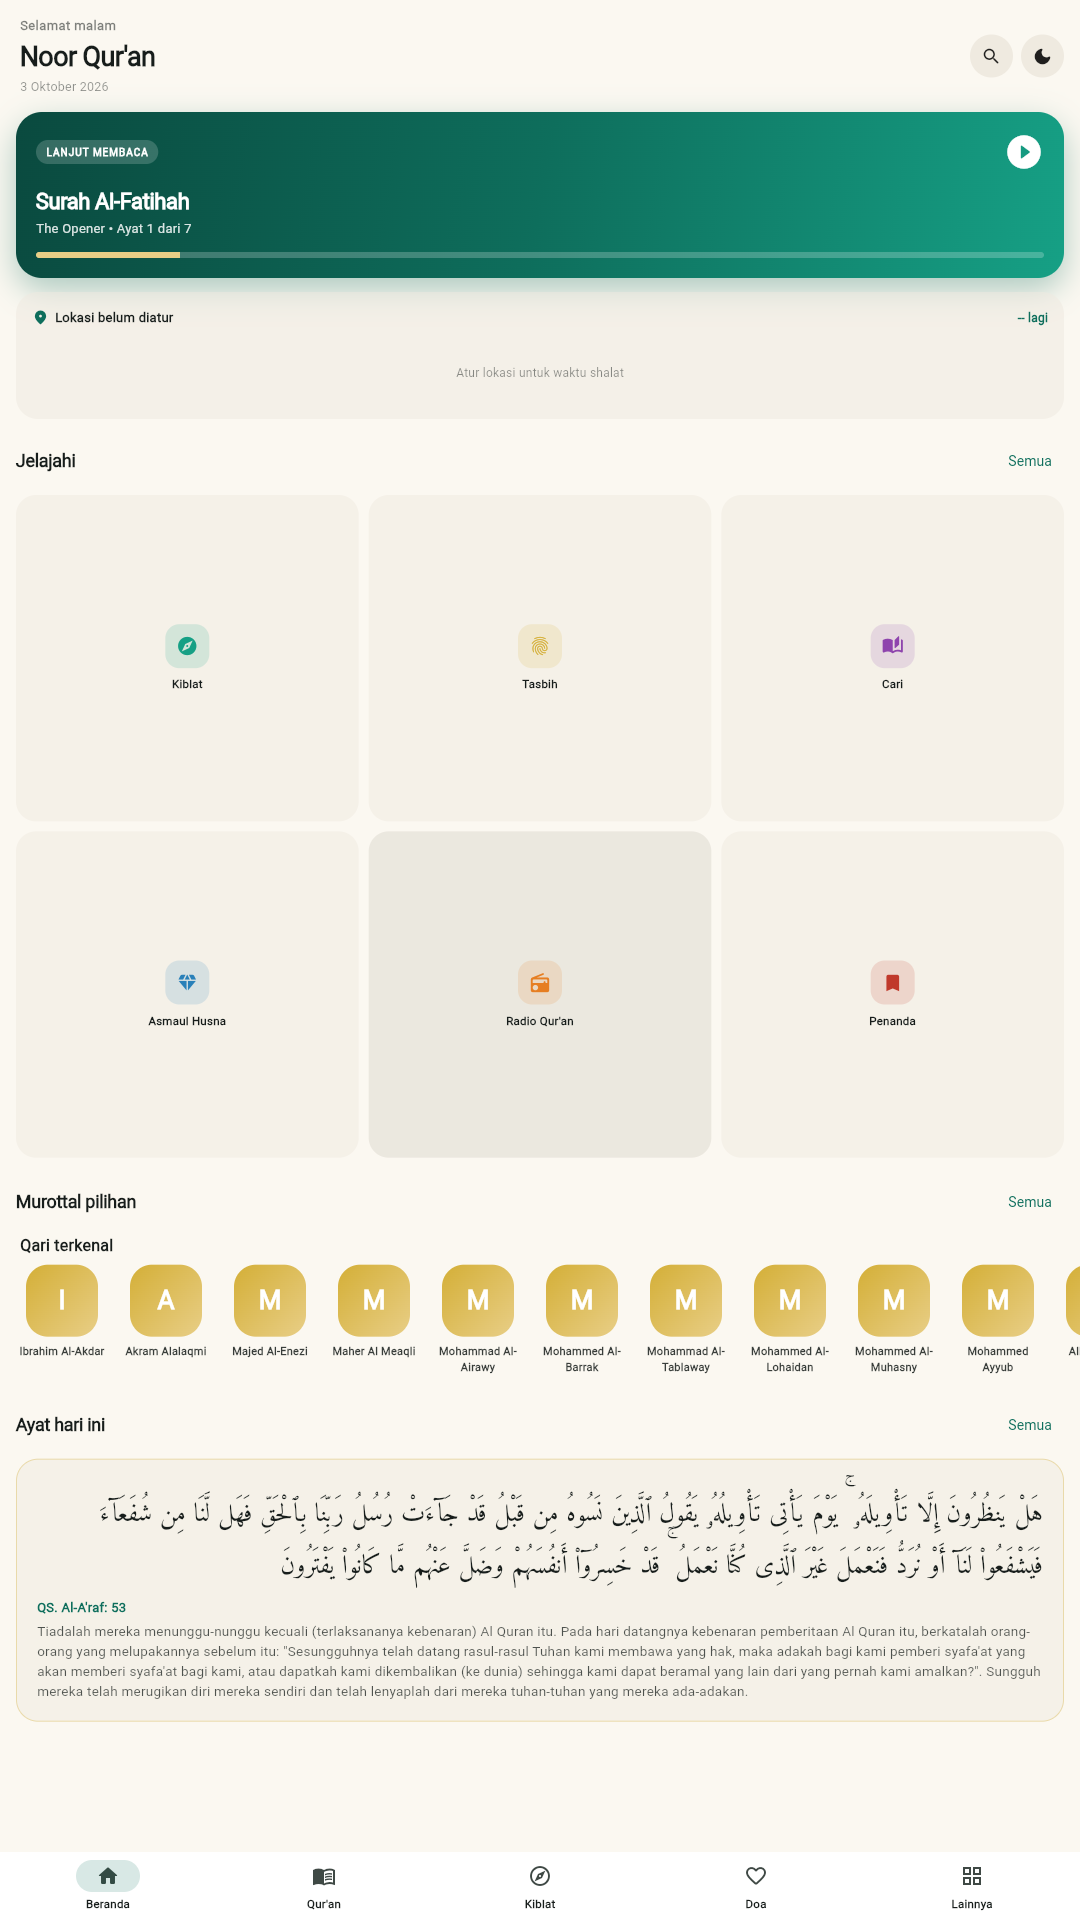
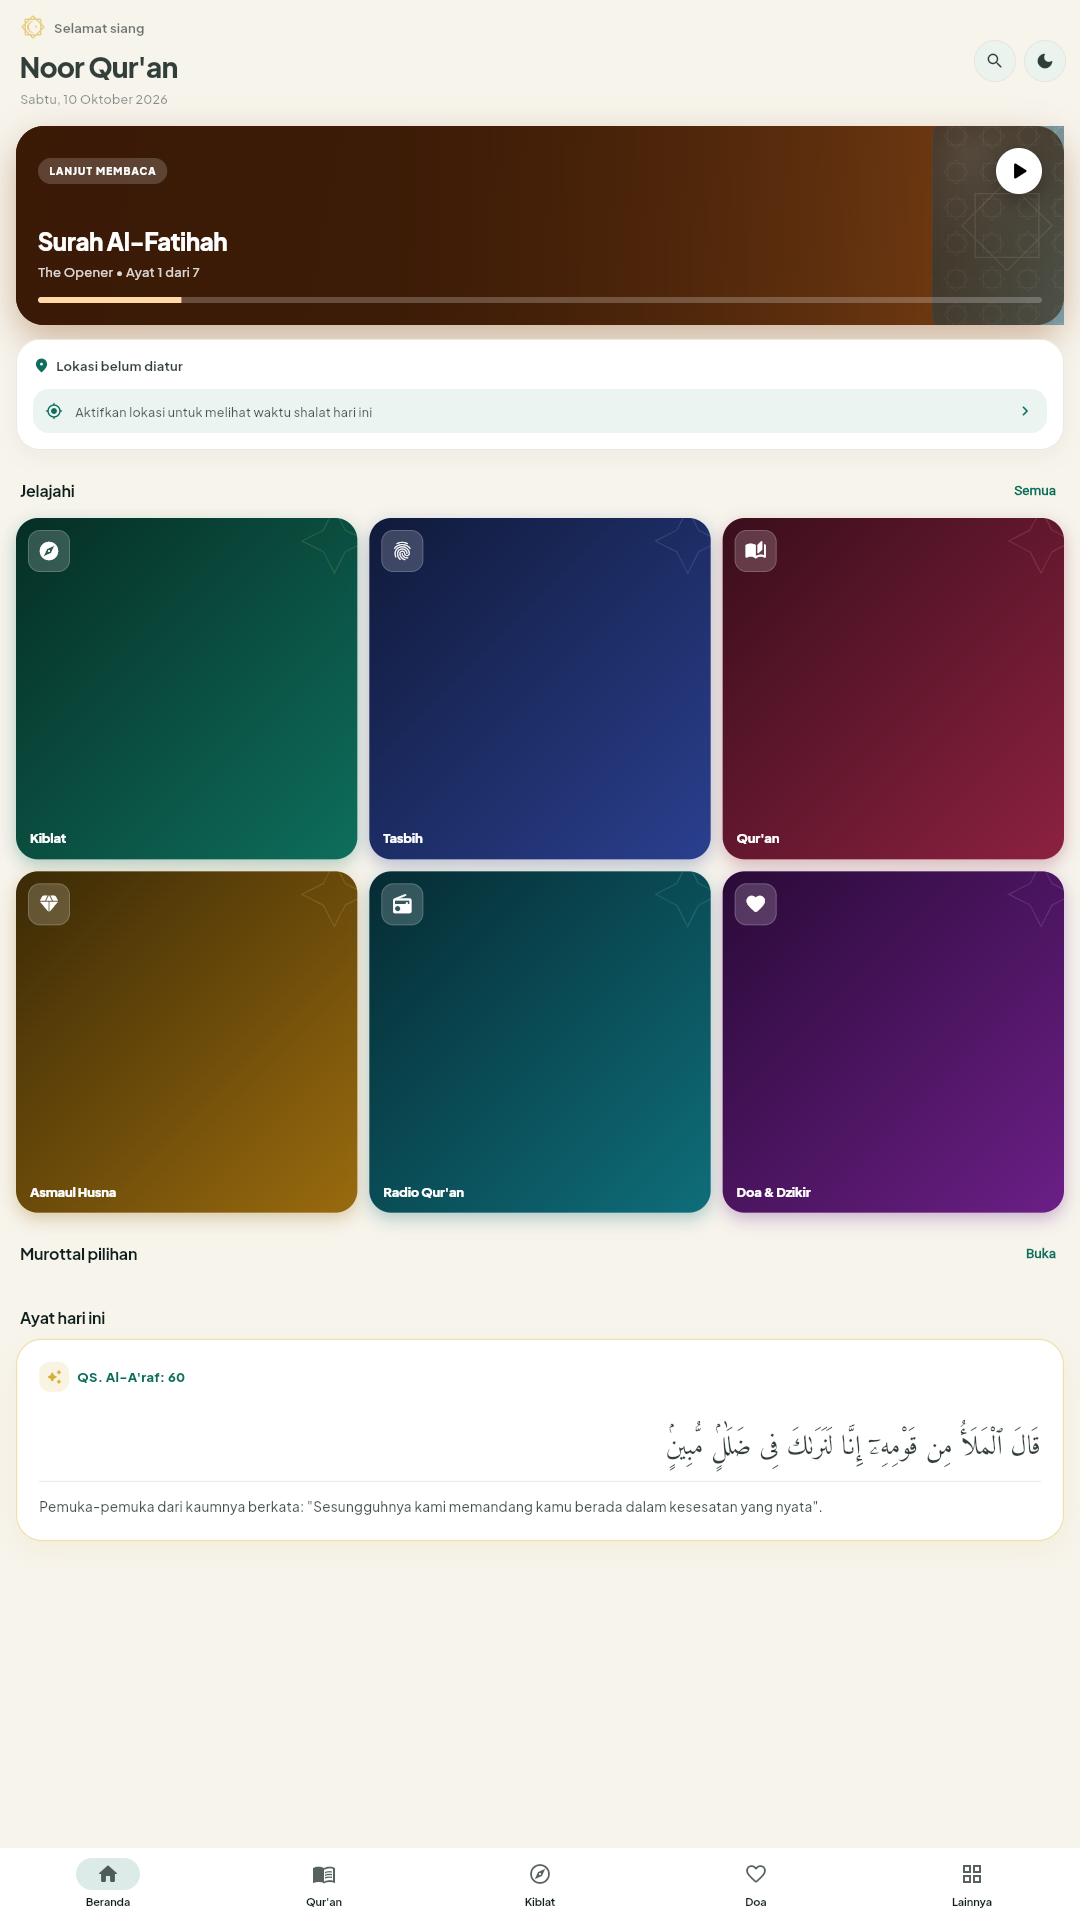
Play Store assets: fresh screenshots, feature graphic, stronger attribution
- Re-capture all phone screenshots at 1080x1920 from the live build
  (Home, Surah list, Kiblat, Doa, Lainnya) via headless Chrome + CDP,
  since the browser daemon and Playwright both hung on this box.
- Add the required 1024x500 feature graphic (brand emerald/gold with
  the Khatam lattice), drawn with Pillow.
- Move the promo banner PNG out of the Play screenshot set (wrong
  aspect ratio for a phone screenshot).
- Strengthen data-source attribution in the privacy policy and the
  in-app About dialog: name the rights-holders explicitly (Tanzil
  CC BY 3.0, Kemenag, Saheeh International / Dar Abul-Qasim, Tafsir
  al-Jalalayn, Hisnul Muslim, adhan MIT) and add a rights-holder
  takedown/credit-change contact line.
- store/shot_cdp.js documents the working capture method.

diff --git a/store/shot_cdp.js b/store/shot_cdp.js
@@ -1,0 +1,90 @@
+// Capture Play Store phone screenshots with plain headless Chrome + CDP.
+//
+// The browser-use daemon and Playwright both hung on this box, but Chrome's own
+// --headless=new + --screenshot is reliable. To reach other tabs we drive the
+// page over the DevTools WebSocket (Input.dispatchMouseEvent), which needs no
+// extra daemon.
+const http = require('http');
+const WebSocket = require('ws');
+const fs = require('fs');
+
+const OUT = 'C:\\Users\\USER\\quran_app\\store\\screenshots';
+const URL = 'https://noor-quran-wheat.vercel.app/';
+const PORT = 9222;
+const VW = 1080, VH = 1920;
+
+const NAV_Y = 1856;
+const NAV_X = [108, 324, 540, 756, 972];
+
+const sleep = (ms) => new Promise((r) => setTimeout(r, ms));
+
+function getJSON(path) {
+  return new Promise((res, rej) => {
+    http.get({ host: '127.0.0.1', port: PORT, path }, (r) => {
+      let d = '';
+      r.on('data', (c) => (d += c));
+      r.on('end', () => res(JSON.parse(d)));
+    }).on('error', rej);
+  });
+}
+
+(async () => {
+  const targets = await getJSON('/json/list');
+  const page = targets.find((t) => t.type === 'page');
+  if (!page) throw new Error('no page target');
+  const ws = new WebSocket(page.webSocketDebuggerUrl, { perMessageDeflate: false });
+  let id = 0;
+  const pending = new Map();
+  const send = (method, params = {}) =>
+    new Promise((res, rej) => {
+      const mid = ++id;
+      pending.set(mid, { res, rej });
+      ws.send(JSON.stringify({ id: mid, method, params }));
+    });
+  ws.on('message', (m) => {
+    const msg = JSON.parse(m);
+    if (msg.id && pending.has(msg.id)) {
+      const { res, rej } = pending.get(msg.id);
+      pending.delete(msg.id);
+      msg.error ? rej(new Error(msg.error.message)) : res(msg.result);
+    }
+  });
+  await new Promise((r) => ws.on('open', r));
+
+  await send('Emulation.setDeviceMetricsOverride', { width: VW, height: VH, deviceScaleFactor: 1, mobile: true });
+  await send('Page.enable');
+  await send('Page.navigate', { url: URL });
+  await sleep(16000);
+
+  // Drop the Android-only APK banner (it overlays the nav bar).
+  await send('Runtime.evaluate', {
+    expression: "(() => { const b=document.getElementById('apk-banner'); if(b) b.remove(); return 1; })()",
+  });
+
+  const tap = async (x, y, wait) => {
+    for (const type of ['mousePressed', 'mouseReleased']) {
+      await send('Input.dispatchMouseEvent', { type, x, y, button: 'left', clickCount: 1 });
+    }
+    await sleep(wait);
+  };
+  const shot = async (name) => {
+    const { data } = await send('Page.captureScreenshot', { format: 'png' });
+    const p = `${OUT}\\${name}.png`;
+    fs.writeFileSync(p, Buffer.from(data, 'base64'));
+    fs.appendFileSync(OUT + '\\_capture.log', `  ${name}.png (${fs.statSync(p).size}B)\n`);
+  };
+
+  fs.writeFileSync(OUT + '\\_capture.log', 'start ' + new Date().toISOString() + '\n');
+  await shot('01-home');
+  await tap(NAV_X[1], NAV_Y, 3200); await shot('02-surah-list');
+  await tap(NAV_X[2], NAV_Y, 3200); await shot('03-kiblat');
+  await tap(NAV_X[3], NAV_Y, 3200); await shot('04-doa');
+  await tap(NAV_X[4], NAV_Y, 3200); await shot('05-more');
+
+  ws.close();
+  fs.appendFileSync(OUT + '\\_capture.log', 'done\n');
+  process.exit(0);
+})().catch((e) => {
+  fs.appendFileSync(OUT + '\\_capture.log', 'ERROR ' + e.message + '\n');
+  process.exit(1);
+});

diff --git a/store/privacy-policy.html b/store/privacy-policy.html
@@ -86,17 +86,20 @@ clear the app's storage in your device settings or uninstall the app.</p>
 
 <h2>7. Open Source &amp; Data Sources</h2>
 <p>The Qur'anic text, translations, tafsir and duas come from respected public sources and are
-reproduced faithfully and unmodified:</p>
+reproduced faithfully and unmodified. All rights remain with the original rights-holders, who are
+credited below:</p>
 <ul>
   <li>Arabic text — <a href="https://tanzil.net">Tanzil Project</a> (Uthmani), licensed
       <a href="https://creativecommons.org/licenses/by/3.0/">CC BY 3.0</a>, reproduced verbatim and unmodified</li>
-  <li>Indonesian translation — Kemenag</li>
-  <li>English translation — Saheeh International</li>
-  <li>Tafsir — Jalalayn</li>
-  <li>Duas — Hisnul Muslim (Sa'id bin Ali bin Wahf Al-Qahtani)</li>
-  <li>Recitations — mp3quran.net, cdn.islamic.network</li>
+  <li>Indonesian translation — Kementerian Agama Republik Indonesia (Kemenag)</li>
+  <li>English translation — Saheeh International (Umm Muhammad / Dar Abul-Qasim Publishing House, Jeddah)</li>
+  <li>Tafsir — Tafsir al-Jalalayn (Jalal al-Din al-Mahalli &amp; Jalal al-Din al-Suyuti)</li>
+  <li>Duas — <em>Hisnul Muslim</em> by Sa'id bin Ali bin Wahf Al-Qahtani</li>
+  <li>Recitations — mp3quran.net and cdn.islamic.network; copyright remains with each reciter</li>
   <li>Prayer time calculation — adhan (Batoul Apps), MIT licensed</li>
 </ul>
+<p>If you are a rights-holder and would like a credit changed or a source removed, please contact us
+at the address below and we will act promptly.</p>
 
 <h2>8. Changes</h2>
 <p>If this policy changes, the updated version will be posted on this page with a new date.</p>

diff --git a/web/privacy-policy.html b/web/privacy-policy.html
@@ -86,17 +86,20 @@ clear the app's storage in your device settings or uninstall the app.</p>
 
 <h2>7. Open Source &amp; Data Sources</h2>
 <p>The Qur'anic text, translations, tafsir and duas come from respected public sources and are
-reproduced faithfully and unmodified:</p>
+reproduced faithfully and unmodified. All rights remain with the original rights-holders, who are
+credited below:</p>
 <ul>
   <li>Arabic text — <a href="https://tanzil.net">Tanzil Project</a> (Uthmani), licensed
       <a href="https://creativecommons.org/licenses/by/3.0/">CC BY 3.0</a>, reproduced verbatim and unmodified</li>
-  <li>Indonesian translation — Kemenag</li>
-  <li>English translation — Saheeh International</li>
-  <li>Tafsir — Jalalayn</li>
-  <li>Duas — Hisnul Muslim (Sa'id bin Ali bin Wahf Al-Qahtani)</li>
-  <li>Recitations — mp3quran.net, cdn.islamic.network</li>
+  <li>Indonesian translation — Kementerian Agama Republik Indonesia (Kemenag)</li>
+  <li>English translation — Saheeh International (Umm Muhammad / Dar Abul-Qasim Publishing House, Jeddah)</li>
+  <li>Tafsir — Tafsir al-Jalalayn (Jalal al-Din al-Mahalli &amp; Jalal al-Din al-Suyuti)</li>
+  <li>Duas — <em>Hisnul Muslim</em> by Sa'id bin Ali bin Wahf Al-Qahtani</li>
+  <li>Recitations — mp3quran.net and cdn.islamic.network; copyright remains with each reciter</li>
   <li>Prayer time calculation — adhan (Batoul Apps), MIT licensed</li>
 </ul>
+<p>If you are a rights-holder and would like a credit changed or a source removed, please contact us
+at the address below and we will act promptly.</p>
 
 <h2>8. Changes</h2>
 <p>If this policy changes, the updated version will be posted on this page with a new date.</p>

diff --git a/lib/screens/more_screen.dart b/lib/screens/more_screen.dart
@@ -239,12 +239,15 @@ class MoreScreen extends StatelessWidget {
         SizedBox(height: 8),
         Text('Aplikasi Qur\'an lengkap dengan teks Uthmani yang tertanam (embedded), terjemahan, tafsir, kiblat, doa, tasbih, dan pemutar murottal.\n'),
         Text('Sumber data:', style: TextStyle(fontWeight: FontWeight.bold)),
-        Text('• Teks Arab: Tanzil Project (Uthmani) — CC BY 3.0'),
-        Text('• Terjemahan: Kemenag (id), Saheeh International (en)'),
-        Text('• Tafsir: Jalalayn'),
-        Text('• Audio murottal: mp3quran.net, islamic.network'),
-        Text('• Doa & dzikir: Hisnul Muslim'),
-        Text('• Waktu shalat: adhan (batoulapps) — MIT'),
+        Text('• Teks Arab: Tanzil Project (Uthmani) — CC BY 3.0, tanpa perubahan'),
+        Text('• Terjemahan Indonesia: Kementerian Agama RI (Kemenag)'),
+        Text('• Terjemahan Inggris: Saheeh International (Umm Muhammad / Dar Abul-Qasim, Jeddah)'),
+        Text('• Tafsir: Tafsir al-Jalalayn'),
+        Text('• Doa & dzikir: Hisnul Muslim — Sa\'id bin Ali bin Wahf Al-Qahtani'),
+        Text('• Audio murottal: mp3quran.net, islamic.network (hak cipta milik masing-masing qari)'),
+        Text('• Waktu shalat: adhan (Batoul Apps) — MIT'),
+        SizedBox(height: 10),
+        Text('Semua hak milik pemiliknya masing-masing. Jika Anda pemegang hak dan ingin kredit diubah atau sumber dihapus, hubungi kami.', style: TextStyle(fontSize: 11.5)),
       ],
     );
   }

diff --git a/store/play-store-listing.md b/store/play-store-listing.md
@@ -1,10 +1,10 @@
 # Noor Qur'an — Play Store Listing
 
-## App name
-Noor Qur'an — Al-Qur'an & Murottal
+## App name (30 chars max)
+Noor Qur'an: Qur'an & Murottal
 
 ## Short description (80 chars max)
-Qur'an lengkap: terjemahan, tafsir, kiblat, doa, tasbih & murottal streaming + YouTube.
+Qur'an lengkap: terjemahan, tafsir, kiblat, doa, tasbih & murottal streaming.
 
 ## Full description (4000 chars max)
 
